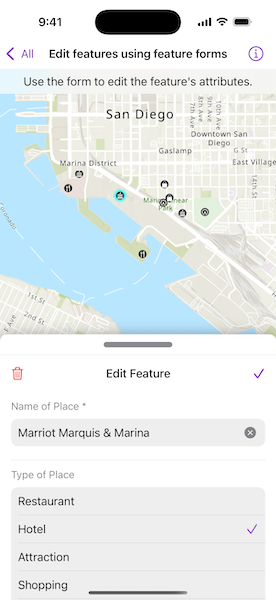
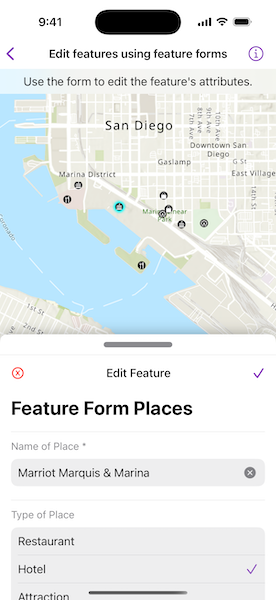
Use x symbol instead of trash.
https://github.com/Esri/arcgis-maps-sdk-swift-samples/pull/528#discussion_r1817054895

diff --git a/Shared/Samples/Edit features using feature forms/EditFeaturesUsingFeatureFormsView.swift b/Shared/Samples/Edit features using feature forms/EditFeaturesUsingFeatureFormsView.swift
@@ -118,8 +118,7 @@ struct EditFeaturesUsingFeatureFormsView: View {
                     }
                 }
                 .alert("Discard Edits", isPresented: $isShowingDiscardEditsAlert) {
-                    Button("Cancel", role: .cancel) {
-                    }
+                    Button("Cancel", role: .cancel) {}
                     Button("Discard", role: .destructive) {
                         featureForm?.discardEdits()
                         endEditing()
@@ -134,7 +133,7 @@ struct EditFeaturesUsingFeatureFormsView: View {
     /// The toolbar for the feature form panel.
     private var featureFormToolbar: some View {
         HStack {
-            Button("Discard Edits", systemImage: "trash", role: .destructive) {
+            Button("Discard Edits", systemImage: "x.circle", role: .destructive) {
                 isShowingDiscardEditsAlert = true
             }
             
